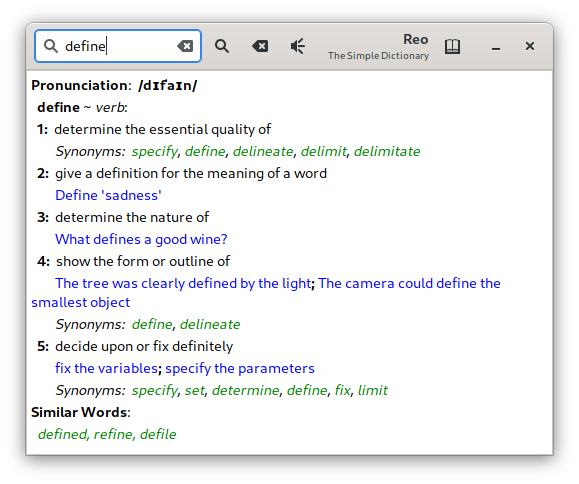
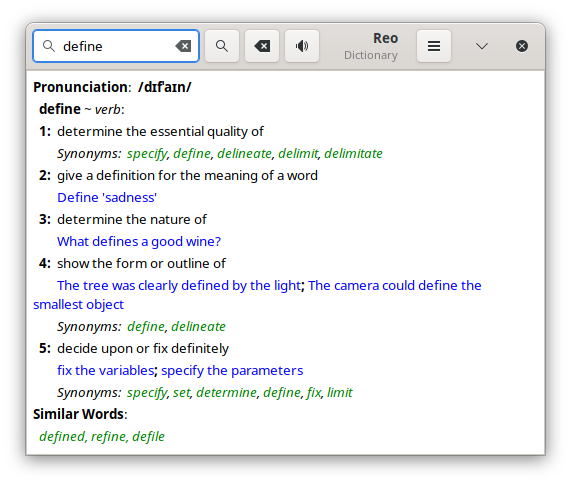
Update the site

diff --git a/index.md b/index.md
@@ -1,32 +1,45 @@
-## Hi.
+# Hi
 
 I'm a guy who enjoys writing code, but doesn't know how to do it well enough just yet. So, any and all projects on my Github will be my experiments with how to do things the right way. They might be simple stuff, but they do work well enough for their purposes.
 
-### [Reo](https://lastweakness.github.io/reo)
+## [Reo](https://lastweakness.github.io/reo)
 
-Reo is a dictionary application created using Python and Gtk3. I call it an application, but really, it's just a simple script and the UI is done with Glade. It uses dictd and espeak-ng through subprocess to get definitions and pronunciations respectively. As you can probably understand, it doesn't try to be much. But it's made with the Linux desktop in mind and so, does work pretty well. The only actually interesting thing is the ways it parses the console output.
+Reo is a dictionary application created using Python and GTK 3. It uses dictd and espeak-ng through subprocess to get definitions and pronunciations respectively. As you can probably understand, it doesn't try to be much. But it's made with the Linux desktop in mind and so, does work pretty well. The only actually interesting thing is the ways it parses the console output.
 
-Even though it uses Gtk3 and has a CSD-style UI, it's not meant to be part of the GNOME group. It tries to be as simple as possible while still looking good enough. However, I've tried to make it work well across many configurations including Gtk3-NoCSD and slightly older Gtk versions.
+Even though it uses GTK 3 and has a very GNOME-like design, it's not meant to be a true GNOME application. It tries to be as simple as possible while still looking good enough.
 
-The code is not high quality but is quite readable and easy to modify.
+There is also a Qt GUI with all the basic features but it's not as usable as the GTK GUI yet because I'm more familiar with GTK in terms of code.
 
-### [Rerun](https://www.github.com/lastweakness/rerun)
+## [corona.py](https://www.github.com/lastweakness/corona.py)
+
+`corona.py` is a tiny script that pulls stats and news from Worldometers and displays it in a neat, reliable format. It also locally caches the stats and news. This allows it to work offline if necessary.
+
+## [pkgup](https://www.github.com/lastweakness/rerun)
+
+`pkgup` is a Python script made to simplify maintaining AUR packages for Arch. It's very simple, so it might not be suited for large packages but it is ideal for smaller packages. It has basic integrity checking, SHA256 updating,
+
+## [Rerun](https://www.github.com/lastweakness/rerun)
 
 Rerun was something made to make life easier on GNOME Wayland and also for switchable graphics. But that was 2 or 3 years ago. GNOME Wayland works well enough now that it's not needed and PRIME has also become much more mature.
 
 That said, Rerun was my experiment with a few things:
- - I tried to extract as much performance as possible from the Python and Gtk3 combo. Sadly, the launch times of a Python+Gtk3 application is still just as unsatisfactory as 2 or 3 years ago.
- - Better CHANGELOG model
- - Semantic Versioning
- - Better code standards compliance
- - Splitting into separate modules (yeah, i hadn't done that before)
 
-### Other works
+- I tried to extract as much performance as possible from the Python and GTK 3 combo. Sadly, the launch times of a Python + GTK 3 application is still just as unsatisfactory as 2 or 3 years ago. BTW, Qt is ridiculously fast.
+- Better CHANGELOG model (Didn't make much of a difference since I never made releases for anything after that...)
+- Semantic Versioning (Same as above...)
+- Better code standards compliance (Huge step towards writing better code.)
+- Splitting into separate modules (yeah, i hadn't done that before at the time. Reo was a single Python file with a lot of horribly dirty code. Rerun was kind of the first step to the decently neat code in Reo now.)
 
-I have a lot of Python scripts that I wrote to make my Linux usage smoother, but none of them are on my Github yet and most of them will probably never be on Github. As for why... the code is a dirty mess. In my opinion, dirty hacks are better left never published when it doesn't affect stability.
+## Other works
+
+I have a lot of Python scripts that I wrote to make my Linux usage smoother, but none of them are on my Github yet and most of them will probably never be on Github. As for why... the code is a dirty mess. In my opinion, dirty hacks are better left never published when it doesn't help with stability.
+
+I've also contributed a bit to [Komikku](https://gitlab.com/valos/Komikku). Not much but I try.
 
 ### Contact me
+
 You can contact me through:
- - [Telegram](https://t.me/fushinari)
- - [E-mail](mailto:lastweakness@tuta.io)
- - Discord: MaloBoi#5588
+
+- [Telegram](https://t.me/fushinari)
+- [E-mail](mailto:lastweakness@tuta.io)
+- Discord: MaloBoi#5588

diff --git a/reo/index.md b/reo/index.md
@@ -17,11 +17,11 @@ Light Mode                                                   |  Dark Mode
 - Live Search: Search as you type.
 - Custom Definitions: Add your own definitions with the Pango Markup Syntax for formatting.
 - Lightweight: 1 mb only and further reducible (It does nothing on its own, so yeah)
-- Support for GNOME Dark Mode, gtk3-nocsd and most current Linux distributions.
+- Support for GNOME Dark Mode and most current Linux distributions.
 
 ## Requirements
 
-- DICT official client and server (dictd and dict, they may or may not be in separate packages depending on the Linuxte distribution)
+- DICT official client and server (dictd and dict, they may or may not be in separate packages depending on the Linux distribution)
 - WordNet 3.1 or 3.0 database for dictd (dict-wn)
 - Python 3
 - Python GObject or PyQt5
@@ -34,14 +34,16 @@ Reo was originally made to be a simple and beautiful alternative to WordWeb, mad
 
 But this also means that while I did want it to be more advanced at one point, I don't think I'll be adding many more features. Mostly, it will be bug fixes, cleaning up the code, improving the implementation of everything and minor features that don't take much effort. I had made it for personal use and as such, not everything is done the way it's really meant to be done. I plan to set that right one step at a time as I learn through mistakes.
 
+I did, however, recently get around to almost redoing the entire thing. The GTK GUI was rewritten from scratch so that it more closely matched the GNOME design language and more importantly, so that it became much more consistent, much more usable and in general, better. What can I say, Corona left enough time for this...
+
 ## Qt GUI
 
-There is now a Qt GUI that uses PyQt5. It can be launched by running `reo-qt`. It has nearly all the important functionality of the GTK version right now except the ability to toggle the text colors and custom definitions. So, it's almost feature complete but still needs some work. Live search can be enabled with the `-l` command-line parameter and debugging mode (verbosity) can be enabled with the `-v` parameter.
+There is now a Qt GUI that uses PyQt5. It can be launched by running `reo-qt`. It has nearly all the important functionality of the GTK version right now except the ability to toggle the text colors. So, it's almost feature complete but still needs some work. Live search can be enabled with the `-l` command-line parameter and debugging mode (verbosity) can be enabled with the `-v` parameter.
 
 ### How Reo came to exist
 
 I was looking for a decent dictionary application on Linux and came across [this answer](https://askubuntu.com/a/417132). The first part in specific, with dictd and espeak, really seemed nice. First, I made a Gambas application for the purpose called "Define".
 
-It had a lot of features including really advanced customization options. But it had a lot of issues including color-coding being impossible. The customization options were also to make up for the lack of native appearance (even though it used Gtk3 too).
+It had a lot of features including really advanced customization options. But it had a lot of issues including color-coding being impossible. The customization options were also to make up for the lack of native appearance (even though it used GTK 3 too).
 
 Considering all that, I rewrote the application in Python and called it "PyDict". Yeah, very original, I know. Google Drive was my 'version control' until then. Soon, when I made some huge changes to how it worked, I renamed it to "Reo" and put it up on GitHub. I did put up 'PyDict' on GitHub in the past too but I deleted the repository.
